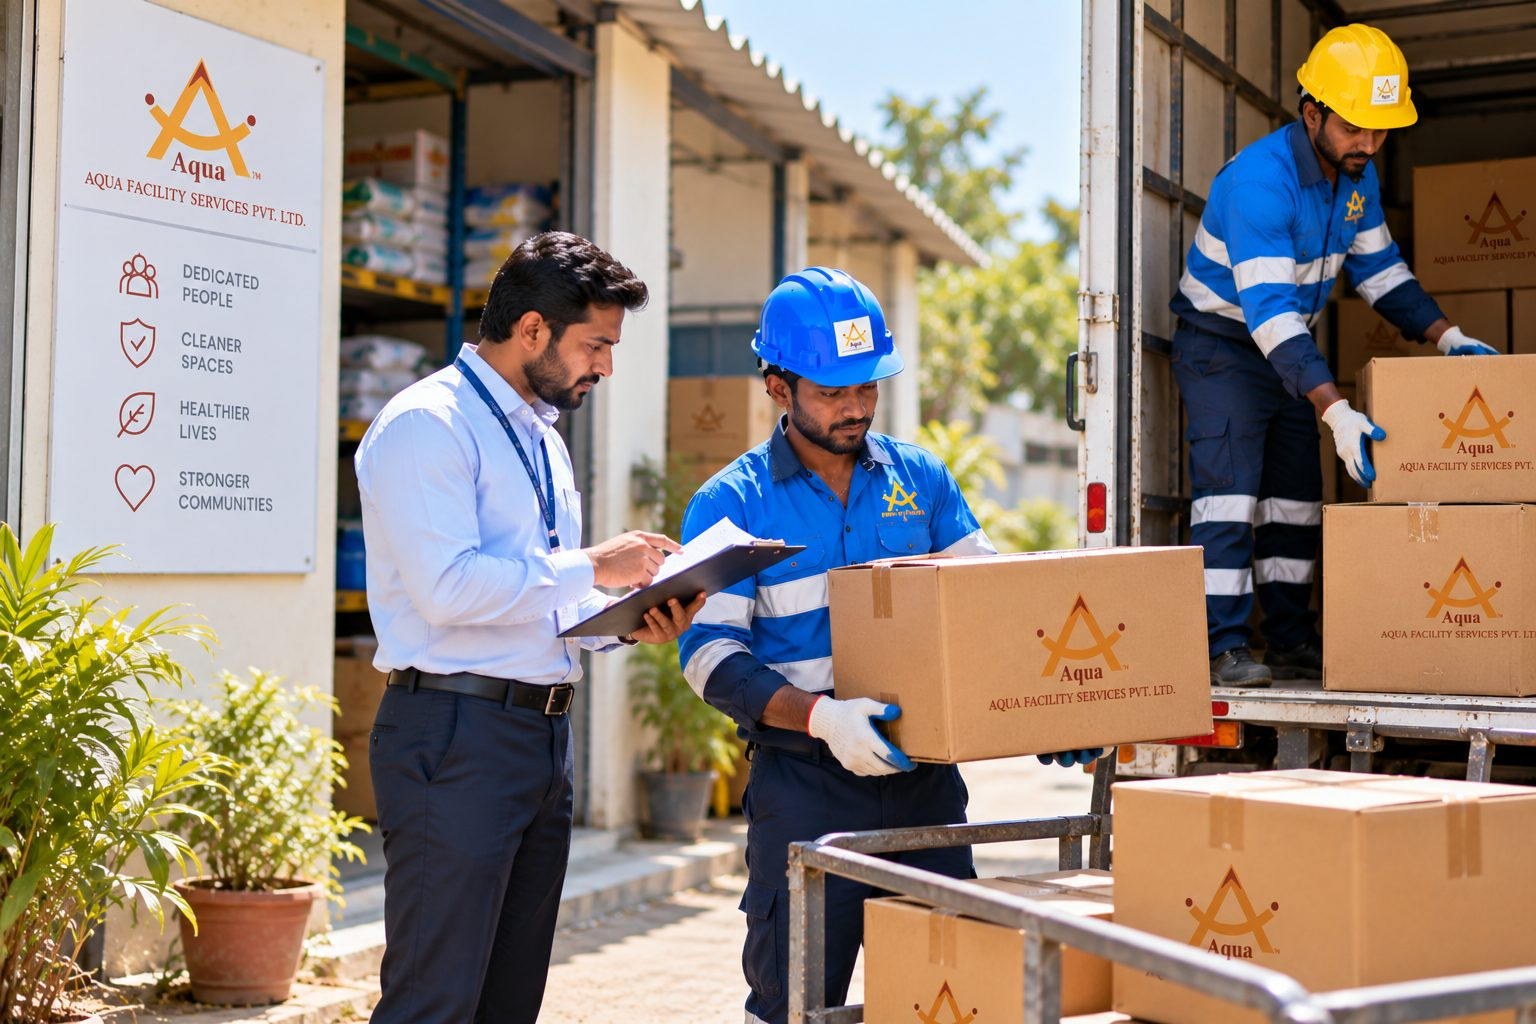
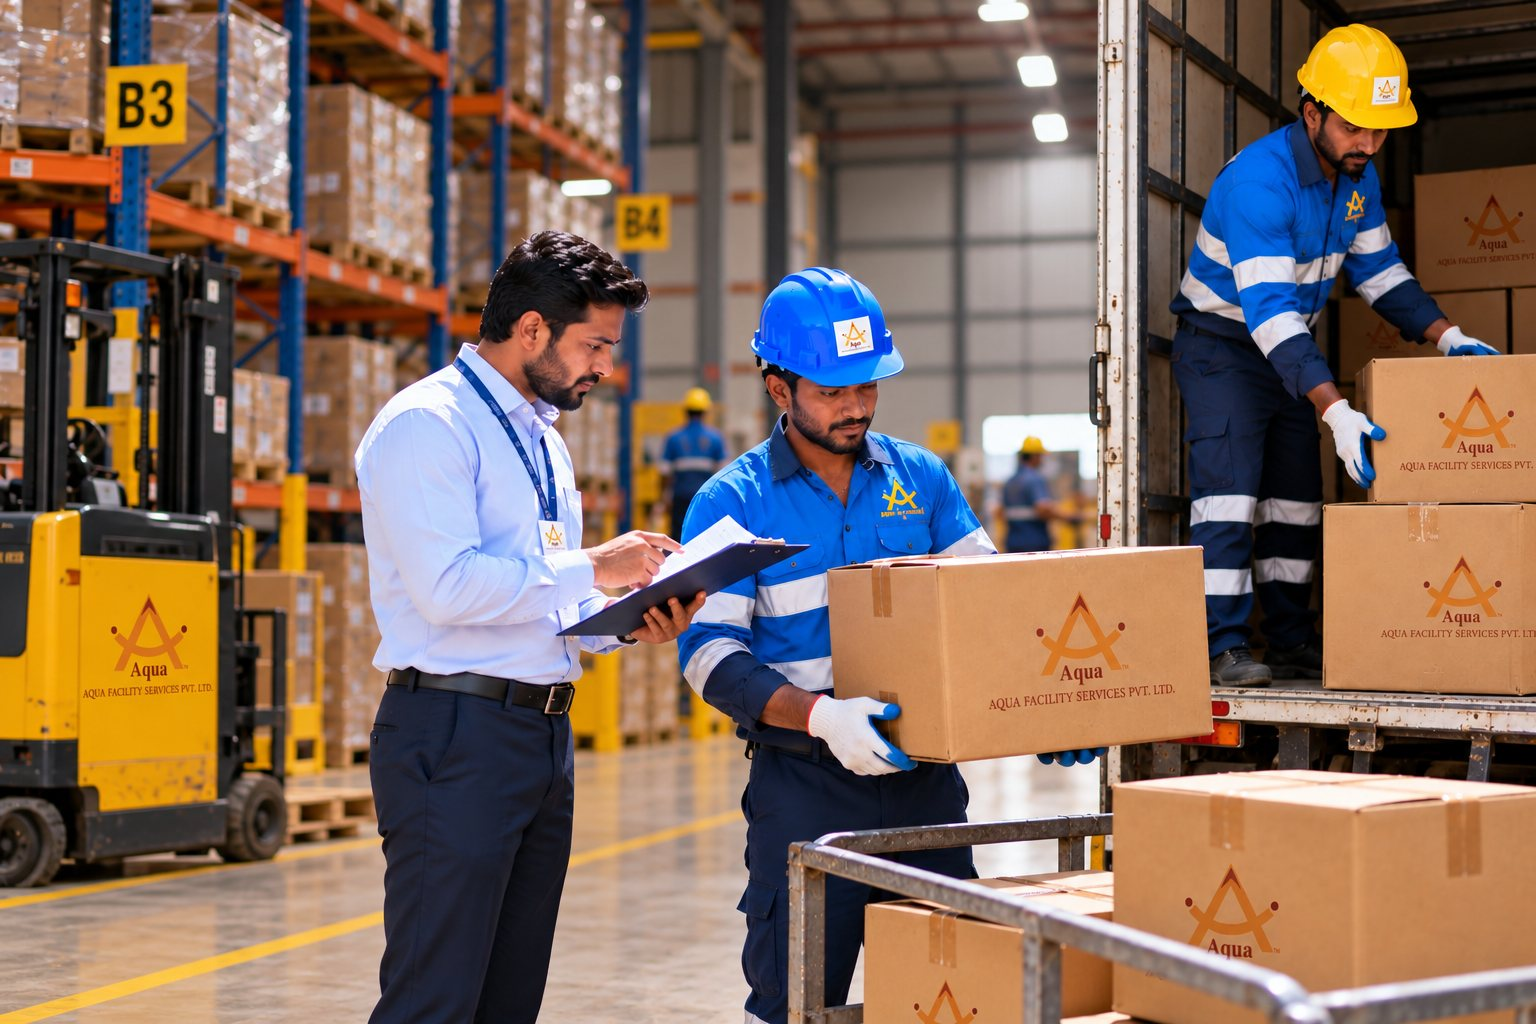
Replace the site photography with the warehouse and plant set
Six new photographs replace the earlier five across the home mosaic, the
service pages, the case-study cards, careers and contact. Railway work now
has its own photograph instead of borrowing the supervision one.

diff --git a/src/content/workPhotos.ts b/src/content/workPhotos.ts
@@ -1,7 +1,8 @@
 /**
- * Site photography (supplied by Nirav, 2026-09-28). One record per image so a
- * file is never referenced by a bare path in a page, and alt text is written
- * once. Replace the file in `public/work/` to change a picture everywhere.
+ * Site photography (supplied by Nirav, replaced 2026-10-07 with the warehouse
+ * and plant set). One record per image so a file is never referenced by a bare
+ * path in a page, and alt text is written once. Replace the file in
+ * `public/work/` to change a picture everywhere.
  */
 
 export type WorkPhoto = { src: string; alt: string };
@@ -9,23 +10,27 @@ export type WorkPhoto = { src: string; alt: string };
 export const workPhotos = {
   housekeeping: {
     src: "/work/site-housekeeping.jpg",
-    alt: "Aqua housekeeping operative sweeping a site walkway beside a cleaning trolley and wet-floor sign",
+    alt: "Aqua housekeeping operative sweeping a warehouse aisle beside a cleaning trolley and wet-floor sign",
   },
   briefing: {
     src: "/work/shift-briefing.jpg",
-    alt: "Aqua supervisor running a shift briefing with the site team against the day's work plan",
+    alt: "Aqua supervisor running a shift briefing with the warehouse team against the day's work plan",
   },
   supervision: {
     src: "/work/supervision-cleaning-schedule.jpg",
-    alt: "Aqua supervisor and operative reviewing the cleaning schedule and safety board on site",
+    alt: "Aqua supervisor and operative reviewing the cleaning schedule and safety board inside a warehouse",
   },
   materialHandling: {
     src: "/work/material-handling.jpg",
-    alt: "Aqua team loading and checking material against a stores register at a site gate",
+    alt: "Aqua team loading cartons and checking them against the stores register in a warehouse",
   },
   maintenance: {
     src: "/work/maintenance-pump-room.jpg",
-    alt: "Aqua technician working on pump and pipework at a site water-treatment installation",
+    alt: "Aqua technician working on pump and pipework in a plant utility area",
+  },
+  railway: {
+    src: "/work/railway-maintenance.jpg",
+    alt: "Aqua technicians working on rolling-stock maintenance at a railway depot",
   },
 } as const satisfies Record<string, WorkPhoto>;
 
@@ -35,13 +40,13 @@ export const servicePhoto: Record<string, WorkPhoto> = {
   "hr-workforce-solutions": workPhotos.briefing,
   "production-manpower": workPhotos.materialHandling,
   "industrial-operations-maintenance": workPhotos.maintenance,
-  "railway-infrastructure": workPhotos.supervision,
+  "railway-infrastructure": workPhotos.railway,
   "technology-enabled-operations": workPhotos.briefing,
 };
 
 /** Which photograph heads each case study. */
 export const caseStudyPhoto: Record<string, WorkPhoto> = {
   "multi-plant-integrated-facility-management": workPhotos.housekeeping,
-  "railway-station-mechanised-cleaning": workPhotos.supervision,
+  "railway-station-mechanised-cleaning": workPhotos.railway,
   "production-manpower-line-continuity": workPhotos.materialHandling,
 };
